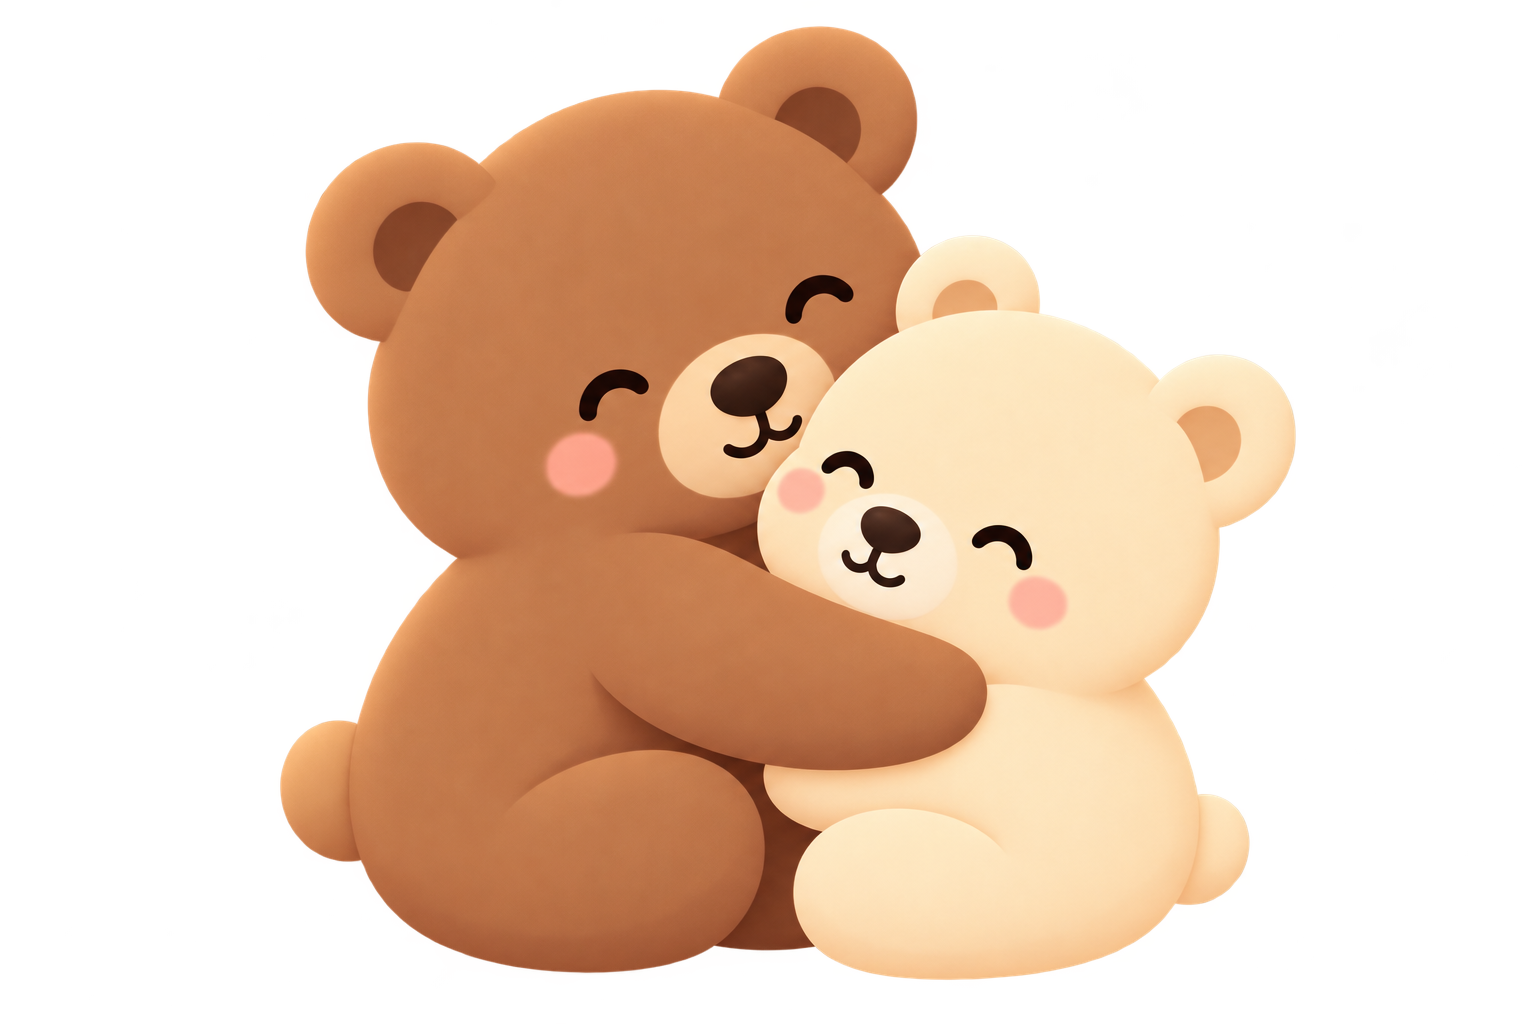
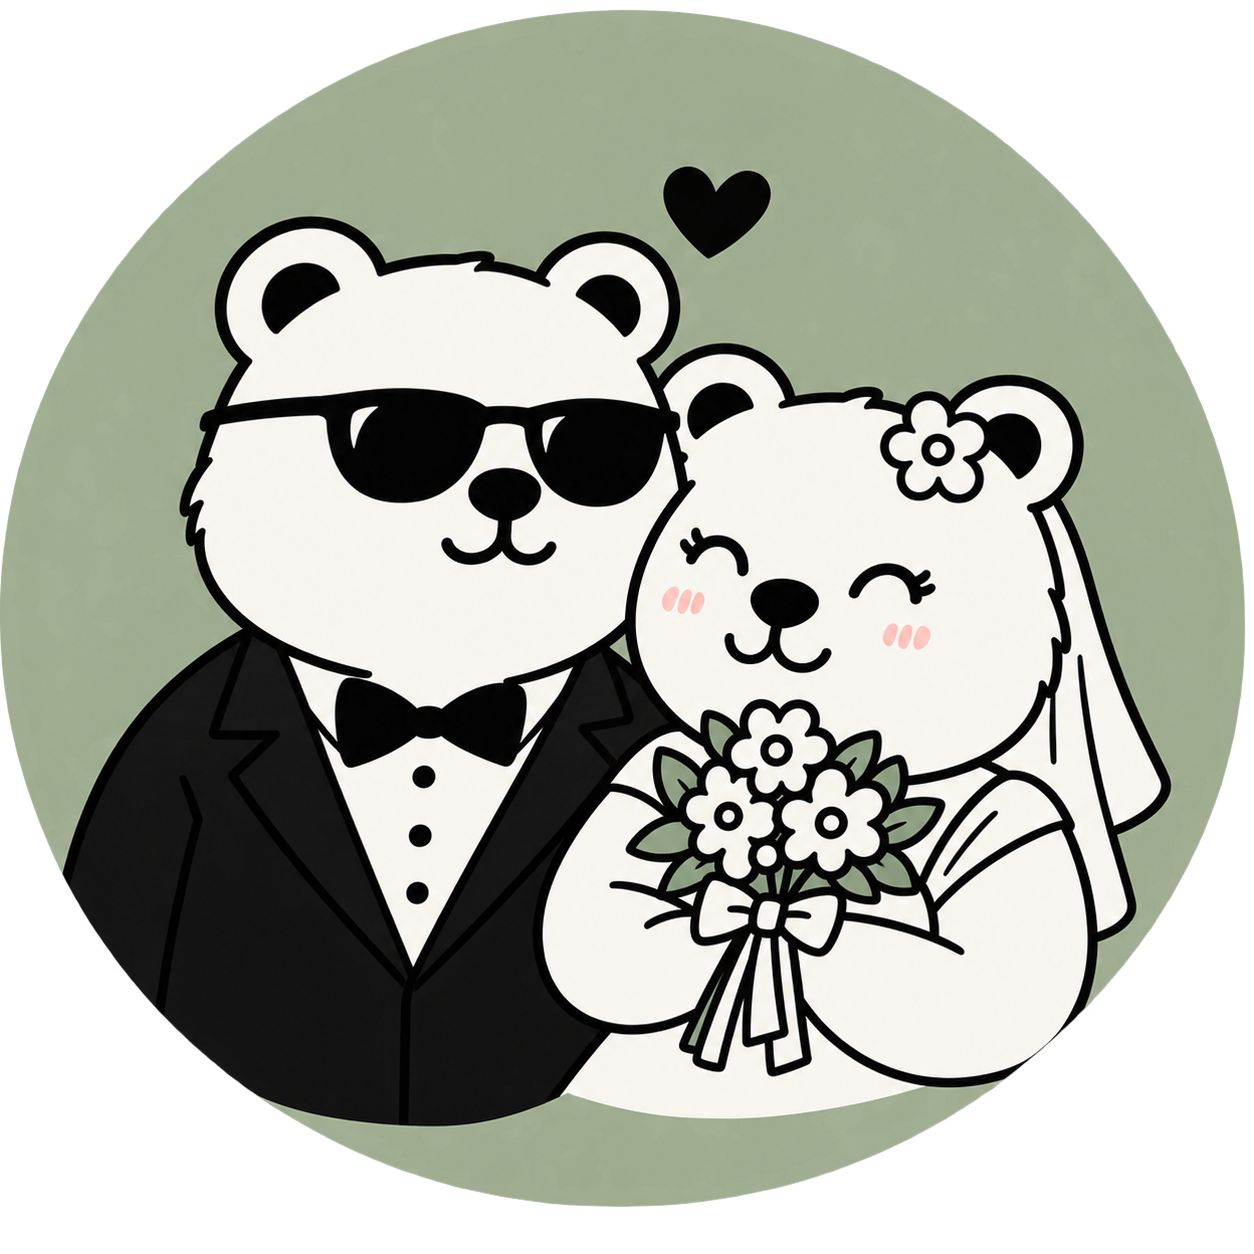
Substitui as ilustrações do casal por versões com traje de casamento
Ursinhos, pinguins e capivaras ganham a versão em traje de noivos
(fato/gravata-borboleta + véu/buquê); Sapos é substituído por Coalas,
já que não havia ilustração nova equivalente para a rã.

Claude-Session: https://claude.ai/code/session_01JipwE7jGHjiWuPe5ky1wUm

diff --git a/mobile-app/app/lib/core/wedding/wedding_nav_icon.dart b/mobile-app/app/lib/core/wedding/wedding_nav_icon.dart
@@ -6,7 +6,7 @@ import 'package:flutter_riverpod/flutter_riverpod.dart';
 enum WeddingNavIcon {
   bears('Ursinhos', 'assets/images/nav_icon_bears.png', 1),
   penguins('Pinguins', 'assets/images/nav_icon_penguins.png', 1),
-  frogs('Sapos', 'assets/images/nav_icon_frogs.png', 1),
+  koalas('Coalas', 'assets/images/nav_icon_koalas.png', 1),
   capybaras('Capivaras', 'assets/images/nav_icon_capybaras.png', 1);
 
   final String label;
